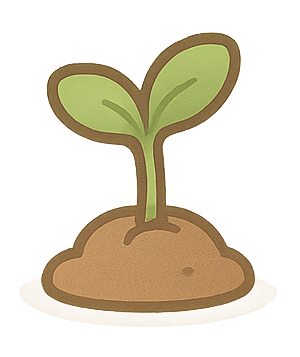
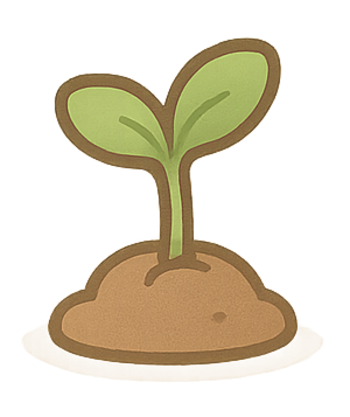
fixed to consistent sizing of flower images

diff --git a/app.js b/app.js
@@ -4,7 +4,19 @@ const minContainer = document.querySelector("#min");
 const secContainer = document.querySelector("#sec");
 const header = document.querySelector("#main-header");
 const waterFlow = document.getElementById("waterFlow");
-const flowerStage = document.getElementById("flowerStage");
+const flowerImgs = [
+    "flower1.png",
+    "flower2.png",
+    "flower3.png",
+    "flower4.png"
+];
+
+const flowerSizes = [
+    {width: 55, height: 55},
+    {width: 70, height: 70},
+    {width: 85, height: 85},
+    {width: 100, height: 100},
+];
 
 const startBtn = document.getElementById("start");
 
@@ -33,16 +45,8 @@ let watering = false;
 let wateringInterval = null;
 let waterTimeout = null;
 
-// Add CSS for the flower stage transition
-const style = document.createElement('style');
-style.textContent = `
-    #flowerStage {
-        transform: scaleY(0);
-        transform-origin: bottom;
-        transition: transform 1.5s ease-out;
-    }
-`;
-document.head.appendChild(style);
+// -1 so first check always fires
+let currentFlowerStageIndex = -1;
 
 // if user updates these when editable then check if set >= 60 and stop them from doing that 
 minContainer.addEventListener("change", () => {
@@ -191,6 +195,7 @@ const resetTime = () => {
  
 // this is to store the interval to terminate it 
 let interval;
+
 // function that countdowns the timer
 const startTicking = () => {
     if (timer_set > 0) {
@@ -204,6 +209,7 @@ const startTicking = () => {
                 timer_set -= 1;
                 elapsedTime += 1;
                 updateCountDownTime();
+                updateFlowerProgress();
                 
                 if (timer_set <= 0) {
                     endTicking();
@@ -319,7 +325,7 @@ function waterAndGrowLoop() {
     waterTimeout = setTimeout(() => {
         if (!watering) return;
 
-        startWaterAnimation(); // 🌧 first watering at 30s
+        startWaterAnimation(); // first watering at 30s
 
         // Grow sprout after water finishes (3s later at 33s)
         waterTimeout = setTimeout(() => {
@@ -350,6 +356,40 @@ function startWaterAnimation() {
     void waterFlow.offsetWidth; // trigger reflow
     waterFlow.style.animation = "pourWater 3s ease-out forwards";
 }
+
+function updateFlowerProgress() {
+    const idx = Math.min(
+        Math.floor(elapsedTime / 30),
+        flowerImgs.length - 1
+    );
+
+    if (idx !== currentFlowerStageIndex) {
+        currentFlowerStageIndex = idx;
+
+        flowerStage.src = flowerImgs[idx];
+
+        // Update size without shifting layout
+        const size = flowerSizes[idx];
+        flowerStage.style.width = size.width + "px";
+        flowerStage.style.height = size.height + "px";
+
+        // Animate scale with preserved translate
+        flowerStage.style.transition = "transform 0.6s ease";
+        flowerStage.style.transform = "scaleY(1.05)";
+        setTimeout(() => {
+            flowerStage.style.transform = "scaleY(1)";
+        }, 600);
+    }
+}
+
+function resetFlowerProgress() {
+    currentFlowerStageIndex = -1;
+    flowerStage.src = flowerImgs[0];
+    flowerStage.style.width = flowerSizes[0].width + "px";
+    flowerStage.style.height = flowerSizes[0].height + "px";
+    flowerStage.style.transform = "scaleY(0)";
+}
+
 
 // handle mode button clicks
 document.querySelectorAll(".mode-btn").forEach(btn => {

diff --git a/style.css b/style.css
@@ -270,30 +270,38 @@ input[readonly] {
   }
 }
 
-/*#sprout {
+/* Flower container for consistent sizing */
+.flower-container {
   position: absolute;
-  left: 74%;
-  top: 83%;
-  width: 20px;
-  height: 20px;
-  background: green;
-  border-radius: 10px 10px 0 0;
-  transform: scaleY(0);
-  transform-origin: bottom;
-  animation: transform 2s ease-in-out;
-  z-index: 1;
+  left: 16vh;
+  top: 17vh;
+  width: 100px;
+  height: 110px;
+  display: flex;
+  align-items: flex-end;
+  justify-content: center;
+  overflow: hidden;
+  z-index: 10;
 }
-*/
 
+.flower-container img {
+  width: 100%;
+  height: 100%;
+  object-fit: contain;
+  display: block;
+}
+
+/* Remove position/size from #flowerStage, let .flower-container handle it */
 #flowerStage {
-  position: absolute;
-  left: 70%;
-  top: 75%;
-  width: 55px;
-  height: 55px;
+  position: static;
+  left: unset;
+  top: unset;
+  width: 100%;
+  height: 100%;
   transform: scaleY(0);
-  transform-origin: bottom;
-  transition: transform 1s ease-out;
+  transform-origin: bottom center;
+  transition: transform 1.5s ease-out;
+  z-index: 10;
 }
 
 @media screen and (max-width: 500px) {

diff --git a/index.html b/index.html
@@ -38,7 +38,9 @@
             <div class = "watering-container">
                 <img id = "smiskiGardening" src = "smiskigardening.png" alt = "Smiski Gardening">
                 <img id = "waterFlow" src = "waterflow.gif" alt = "Water Flow">
-                <img id = "flowerStage" src = "flower1.png" alt = "Growing Flower">
+                <div class="flower-container">
+                    <img id = "flowerStage" src = "flower1.png" alt = "Growing Flower">
+                </div>
             </div>
         </div>
     </div>
